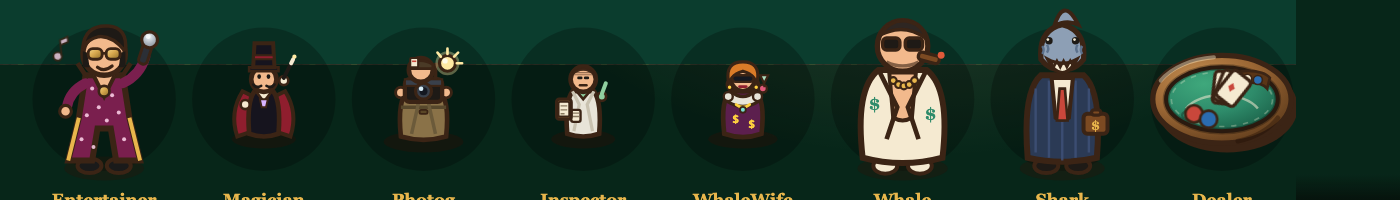
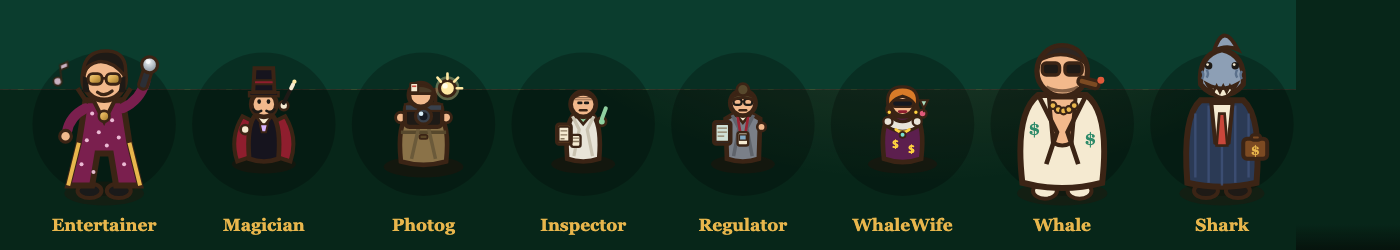
holdem: report3 boss card — five new headliners, refreshed row shot

diff --git a/fede/holdem/report3.html b/fede/holdem/report3.html
@@ -120,7 +120,7 @@ const SHOTS = [
   ['flair-gallery2.png', '<b>Guests dress for the depth.</b> Floors 11–20 the crowd wears high-roller shades and gold chains; floors 21+ they arrive in feather boas; Endless survivors wear tiny crooked crowns. <span class="ask">Right amount of silly?</span>'],
   ['max-play2.png', '<b>A maxed floor in play</b> — the Auditor mid-fight, path-A tables ringed in hot brass, path-B in cold steel, so you can read your build at a glance.'],
   ['sec-dossier.png', '<b>NEW TABLE: CASINO SECURITY</b> (you said I could add towers). A guard at a podium who hits one priority guest HARD and walks them backward up the lane. Branches: The Bouncer (tier 3 <b>THE EJECTION</b> marches them back to the door) or Plainclothes (tier 3 <b>EVERYWHERE AT ONCE</b>, four guests at a time). Targets the strongest by default — it&rsquo;s the boss-handler the roster was missing.'],
-  ['bossrow.png', '<b>FOUR NEW HEADLINERS in one night</b> — six of your eight greenlit bosses now exist. The Magician (blinks forward, takes the crowd along), the House Photographer (his flash freezes every table in frame), the Health Inspector (buffets CLOSED BY ORDER while she walks; cures poison as she passes), and the Whale&rsquo;s Wife (arrives on the Whale&rsquo;s arm, they heal each other, the widow RAGES). The Regulator and The Owner are saved for the endgame.'],
+  ['bossrow.png', '<b>FIVE NEW HEADLINERS in one night</b> — seven of your eight greenlit bosses now exist. The Magician (blinks forward, takes the crowd along), the House Photographer (his flash freezes every table in frame), the Health Inspector (buffets CLOSED BY ORDER while she walks), the Whale&rsquo;s Wife (arrives on the Whale&rsquo;s arm; the widow RAGES), and the Regulator (tapes VIOLATION notices to your tables — half damage, stacking, until she dies). Only THE OWNER remains — pitched in questions.txt as the anchor of his own endgame floor.'],
   ['magician-blink.png', '<b>NEW BOSS: THE MAGICIAN</b> — headlines floor 17 and the endless pit. Every six seconds: puff of smoke, PRESTO, and he&rsquo;s further down the lane — taking every guest near him along. Caught here mid-blink, jumping a velvet-rope queue. The anti-chokepoint boss.']
 ];
 const holder = document.getElementById('cards');
